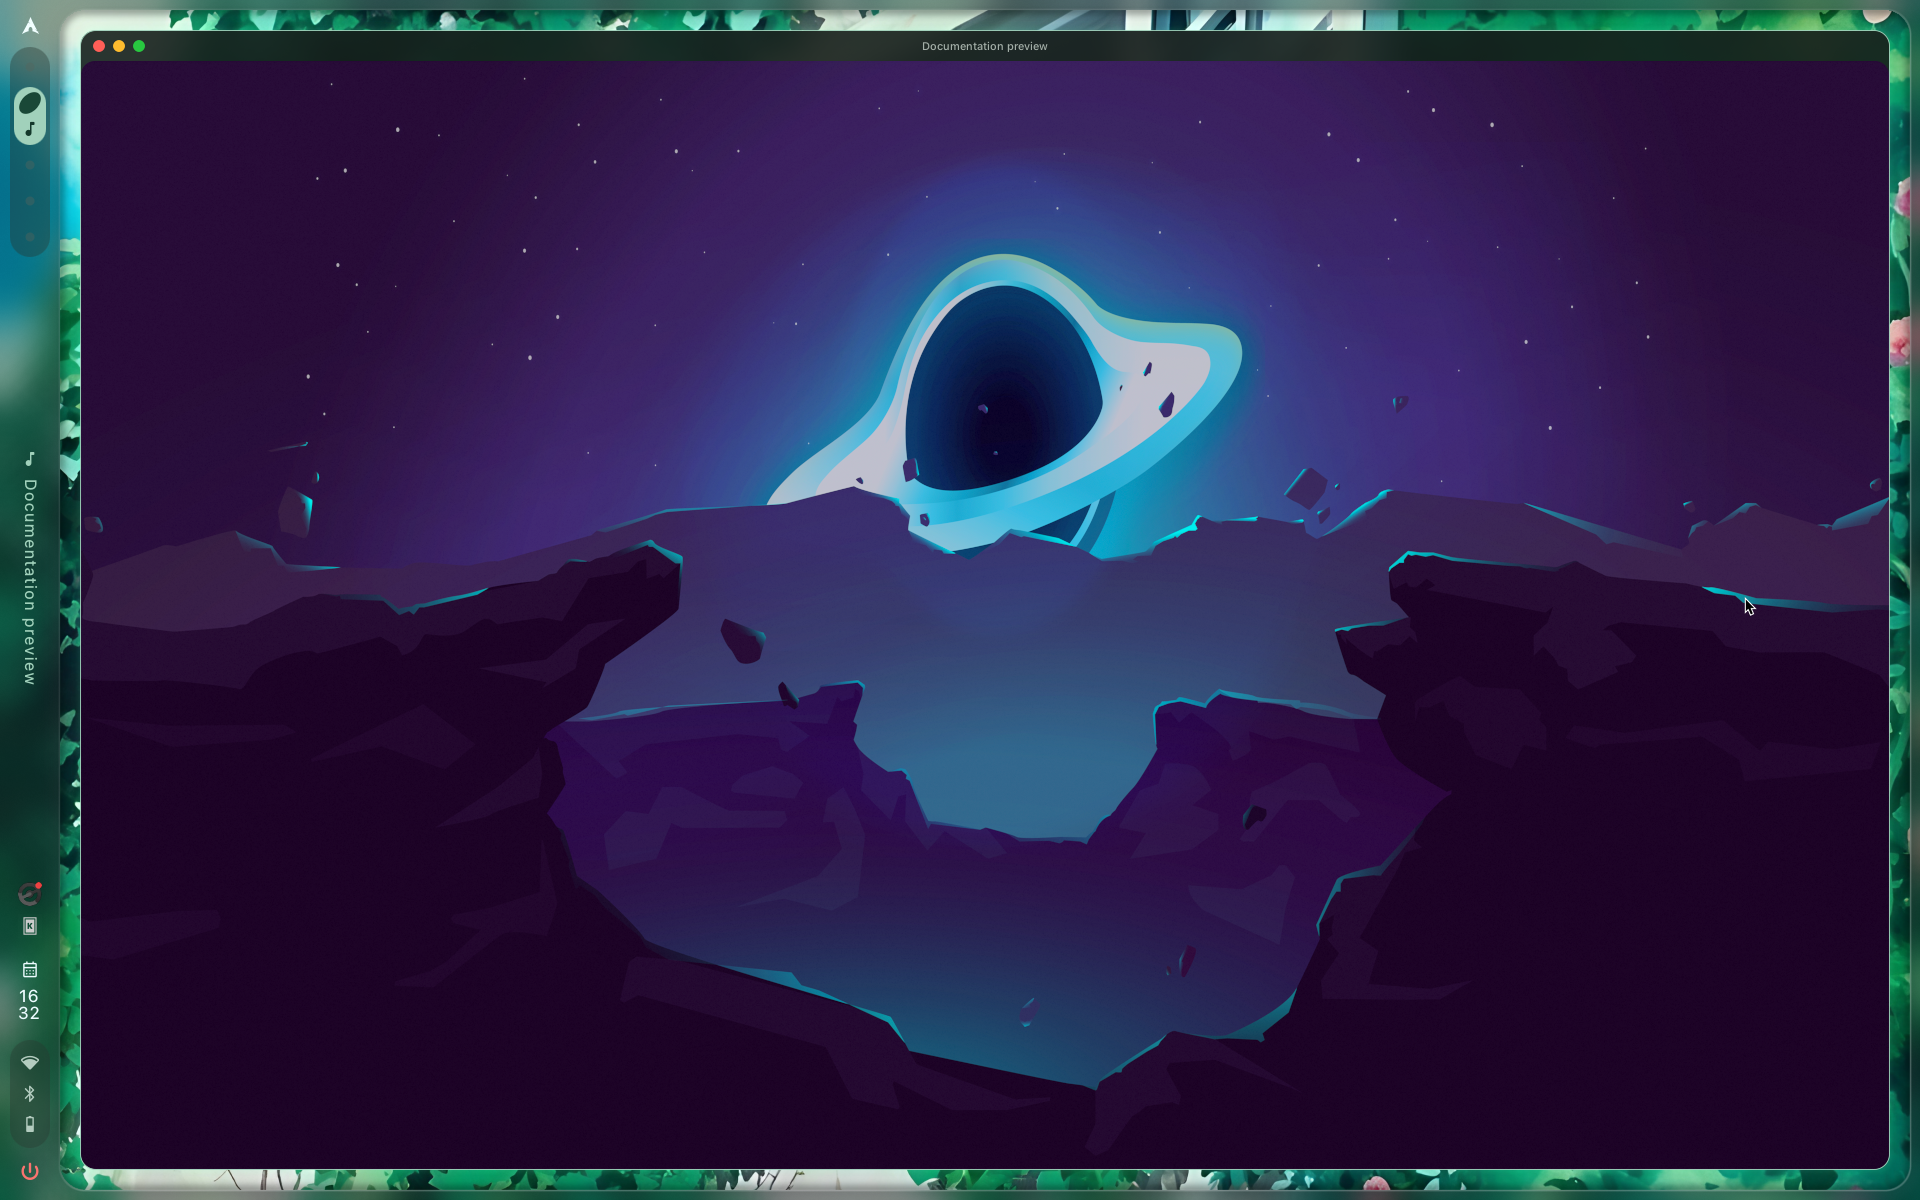
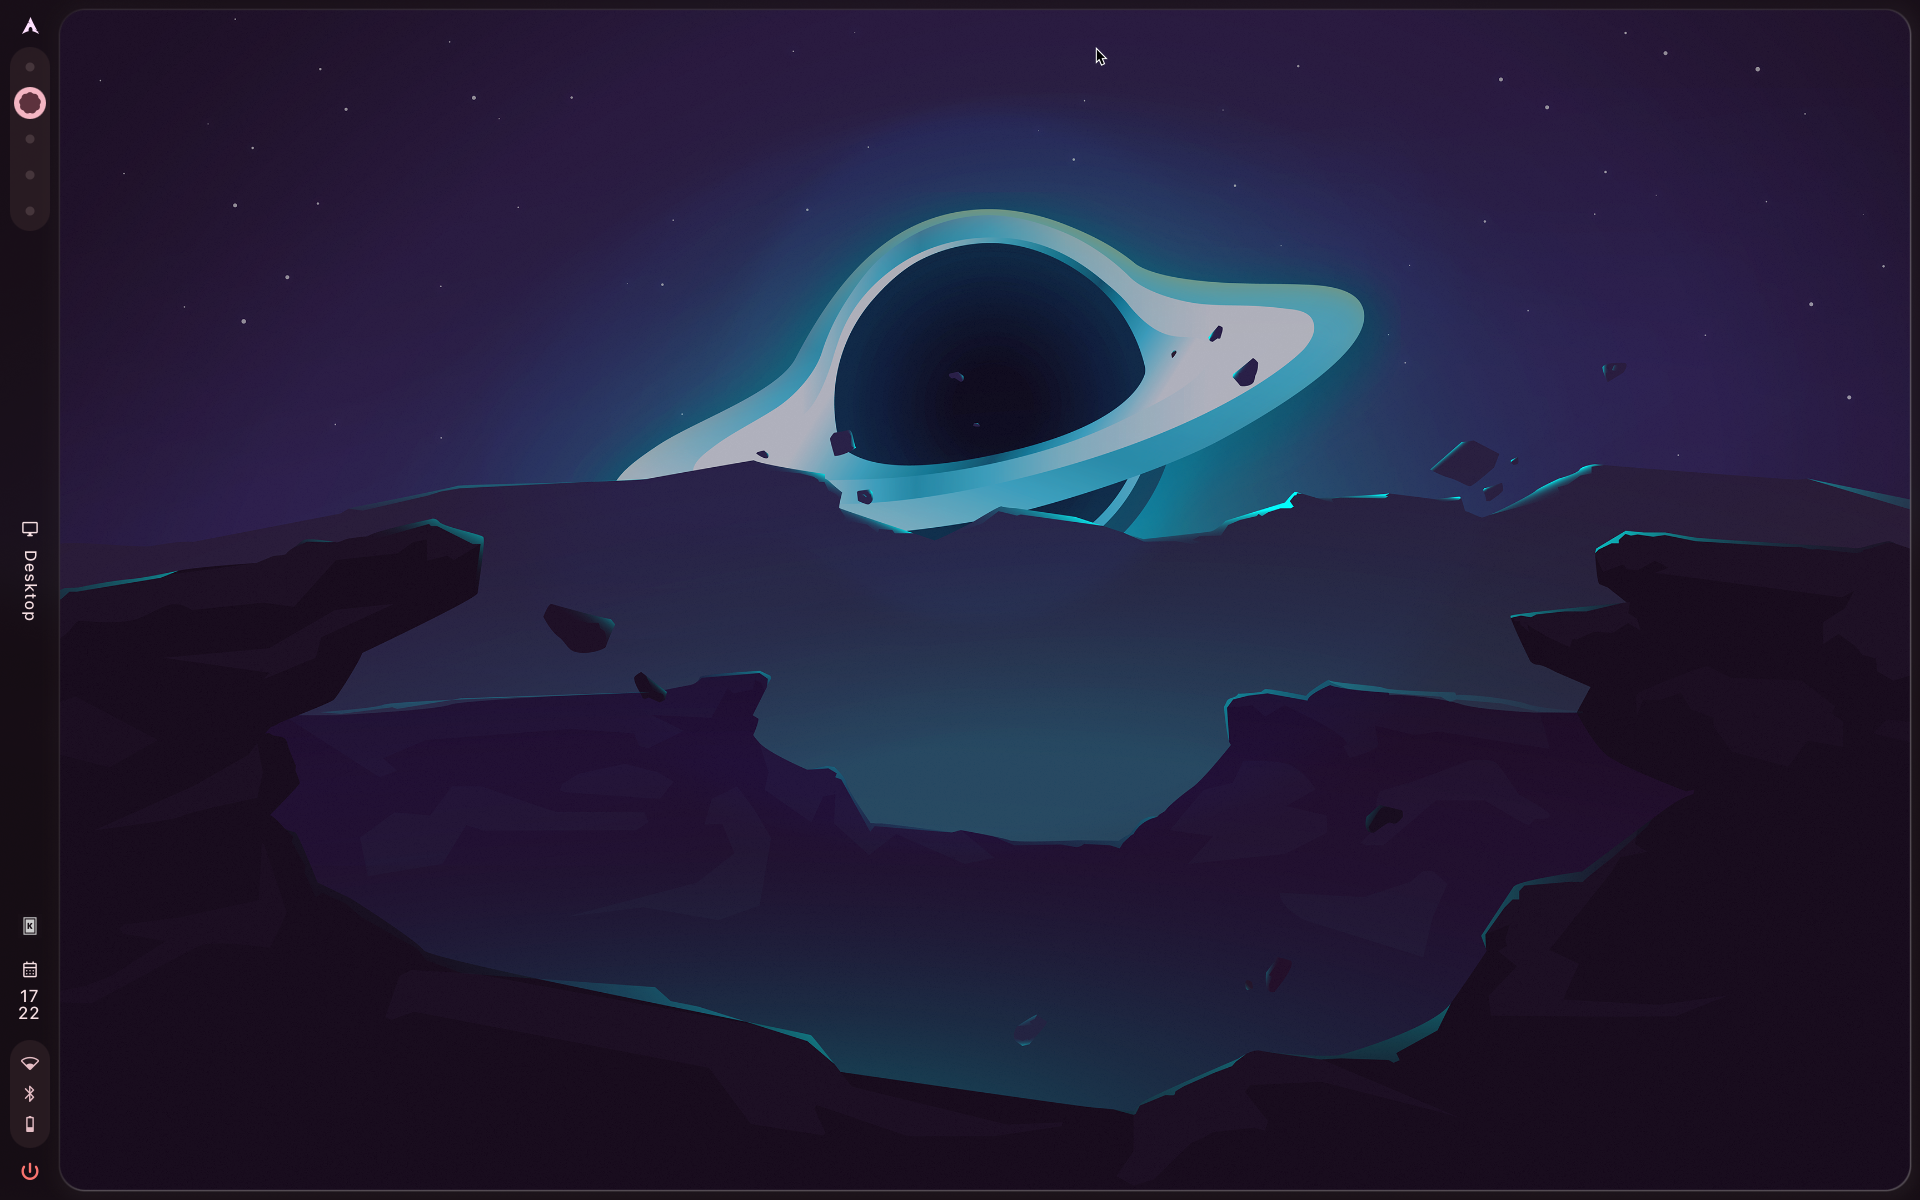
Document adaptive glass materials and reviewed light and dark previews

diff --git a/docs/DEVELOPMENT_LOG.md b/docs/DEVELOPMENT_LOG.md
@@ -93,6 +93,20 @@ The new render tests reproduce the missing bottom glow, corner highlights, and r
 
 New documentation previews show the actual bar/frame, OSD, and utilities on an isolated workspace with a demonstration image viewer. Notifications were suppressed temporarily, and the original workspace and notification setting were restored after capture. The earlier performance measurements predate this lighting update; performance has not been measured again.
 
+## Material roles, light/dark appearance, and depth
+
+The material treatment follows the applicable hierarchy and legibility guidance in Apple's [Materials HIG](https://developer.apple.com/design/human-interface-guidelines/materials) and the visual principles in [Meet Liquid Glass](https://developer.apple.com/videos/play/wwdc2025/219/). This is a Qt/Hyprland approximation using compositor blur and SDF lighting; it does not implement Apple's native backdrop lensing or vibrancy engine.
+
+Connected functional surfaces use a regular tint of 0.7 so text remains legible over bright and dark content. They share one material through their joins. Existing content cards retain their standard materials. The lower-tint shader path remains available for thin glass. Turning transparency off disables both glass variants and restores opaque toast backgrounds, borders, and the existing elevation treatment.
+
+The active-window label and clock use the semantic surface foreground while glass is enabled. Toasts use neutral glass and surface text colors; success, warning, and error indicators retain their colored icon badges. Secondary toast text uses 0.9 opacity to preserve contrast on white.
+
+Cast shadows retain their existing 15 px reach and base strength, but follow an upper-left light source instead of forming a uniform halo. Dark glass frames suppress the inner cast shadow; light frames retain a faint directional contact shadow to remain distinguishable over white. Toast contact shadows are slightly stronger in the light appearance. Rim and local highlights remain separate from cast shadows.
+
+Validation covers the actual light and dark theme settings over white and dark backgrounds, all four toast types, and the opaque fallback when transparency is disabled. Measured title contrast across the toast matrix was at least 5.65:1, with secondary text at least 4.94:1. Render tests cover regular-material contrast, material joins, directional shadows, bounded light-frame contact shadows, and disabled glass. The complete suite reports 38 PASS results, including setup and cleanup, with no failures. Qt Wayland text-input focus warnings still appear between test windows.
+
+See the [light-on-white frame check](images/light-white-frame.png) and the reviewed light/dark previews in the [README](../README.md#preview). The original theme, transparency setting, notification setting, and workspace are restored after checks. Performance measurements earlier in this log predate these material changes and were not repeated.
+
 ## Public assets and privacy
 
 Local desktop captures were removed from the project and its rewritten Git history because they exposed private notifications and application content. The screenshot directory is ignored. Any future showcase images must be reviewed in full, including backgrounds visible through transparent surfaces.

diff --git a/README.md b/README.md
@@ -36,13 +36,14 @@ The development environment used Hyprland 0.57, Qt 6.12, CMake, Ninja, a C++ com
 
 ## Preview
 
-All previews were captured on an isolated workspace with notifications suppressed and a controlled artwork background. Shell previews show the updated glass material over a demonstration image viewer; Rofi previews use demonstration entries. No private notifications, account panels, or application content are shown.
+All shell previews were captured on an isolated workspace with a controlled artwork background and notifications suppressed. Light and dark appearances were switched through the actual theme settings. Popup previews use a safe demonstration message; Rofi previews use demonstration entries. No private notifications, account panels, or application windows are shown.
 
-![Shell frame and bar with a demonstration background](docs/images/shell-desktop-preview.png)
-
-| OSD | Utilities |
+| Light appearance | Dark appearance |
 | --- | --- |
-| ![Glass OSD](docs/images/shell-osd-preview.png) | ![Glass utilities panel](docs/images/shell-utilities-preview.png) |
+| ![Light shell frame and bar](docs/images/shell-desktop-preview-light.png) | ![Dark shell frame and bar](docs/images/shell-desktop-preview.png) |
+| ![Light glass OSD](docs/images/shell-osd-preview-light.png) | ![Dark glass OSD](docs/images/shell-osd-preview.png) |
+| ![Light utilities panel](docs/images/shell-utilities-preview-light.png) | ![Dark utilities panel](docs/images/shell-utilities-preview.png) |
+| ![Light system toast](docs/images/system-toast-preview-light.png) | ![Dark system toast](docs/images/system-toast-preview.png) |
 
 ![Wallpaper picker theme with demonstration entries](docs/images/wallpaper-preview.png)
 
@@ -51,6 +52,9 @@ All previews were captured on an isolated workspace with notifications suppresse
 ## Implementation and validation
 
 - A unified renderer avoids overlapping tint and gaps where glass panels meet.
+- Text-bearing shell surfaces use a regular glass tint with semantic foreground colors in both light and dark appearances.
+- Cast shadows follow a consistent light direction. Light frames retain a faint contact shadow over white; dark frames avoid a surrounding dark halo.
+- System toasts share the glass renderer and preserve colored status badges. Disabling transparency restores the opaque presentation.
 - The shell fork includes render tests for shadows, frame edges, panel intersections, and popout transitions.
 - The Rofi picker uses rounded 480×480 thumbnails displayed in 240 px cards.
 - The SDDM file is an adapted main view, not a complete standalone SDDM theme.
